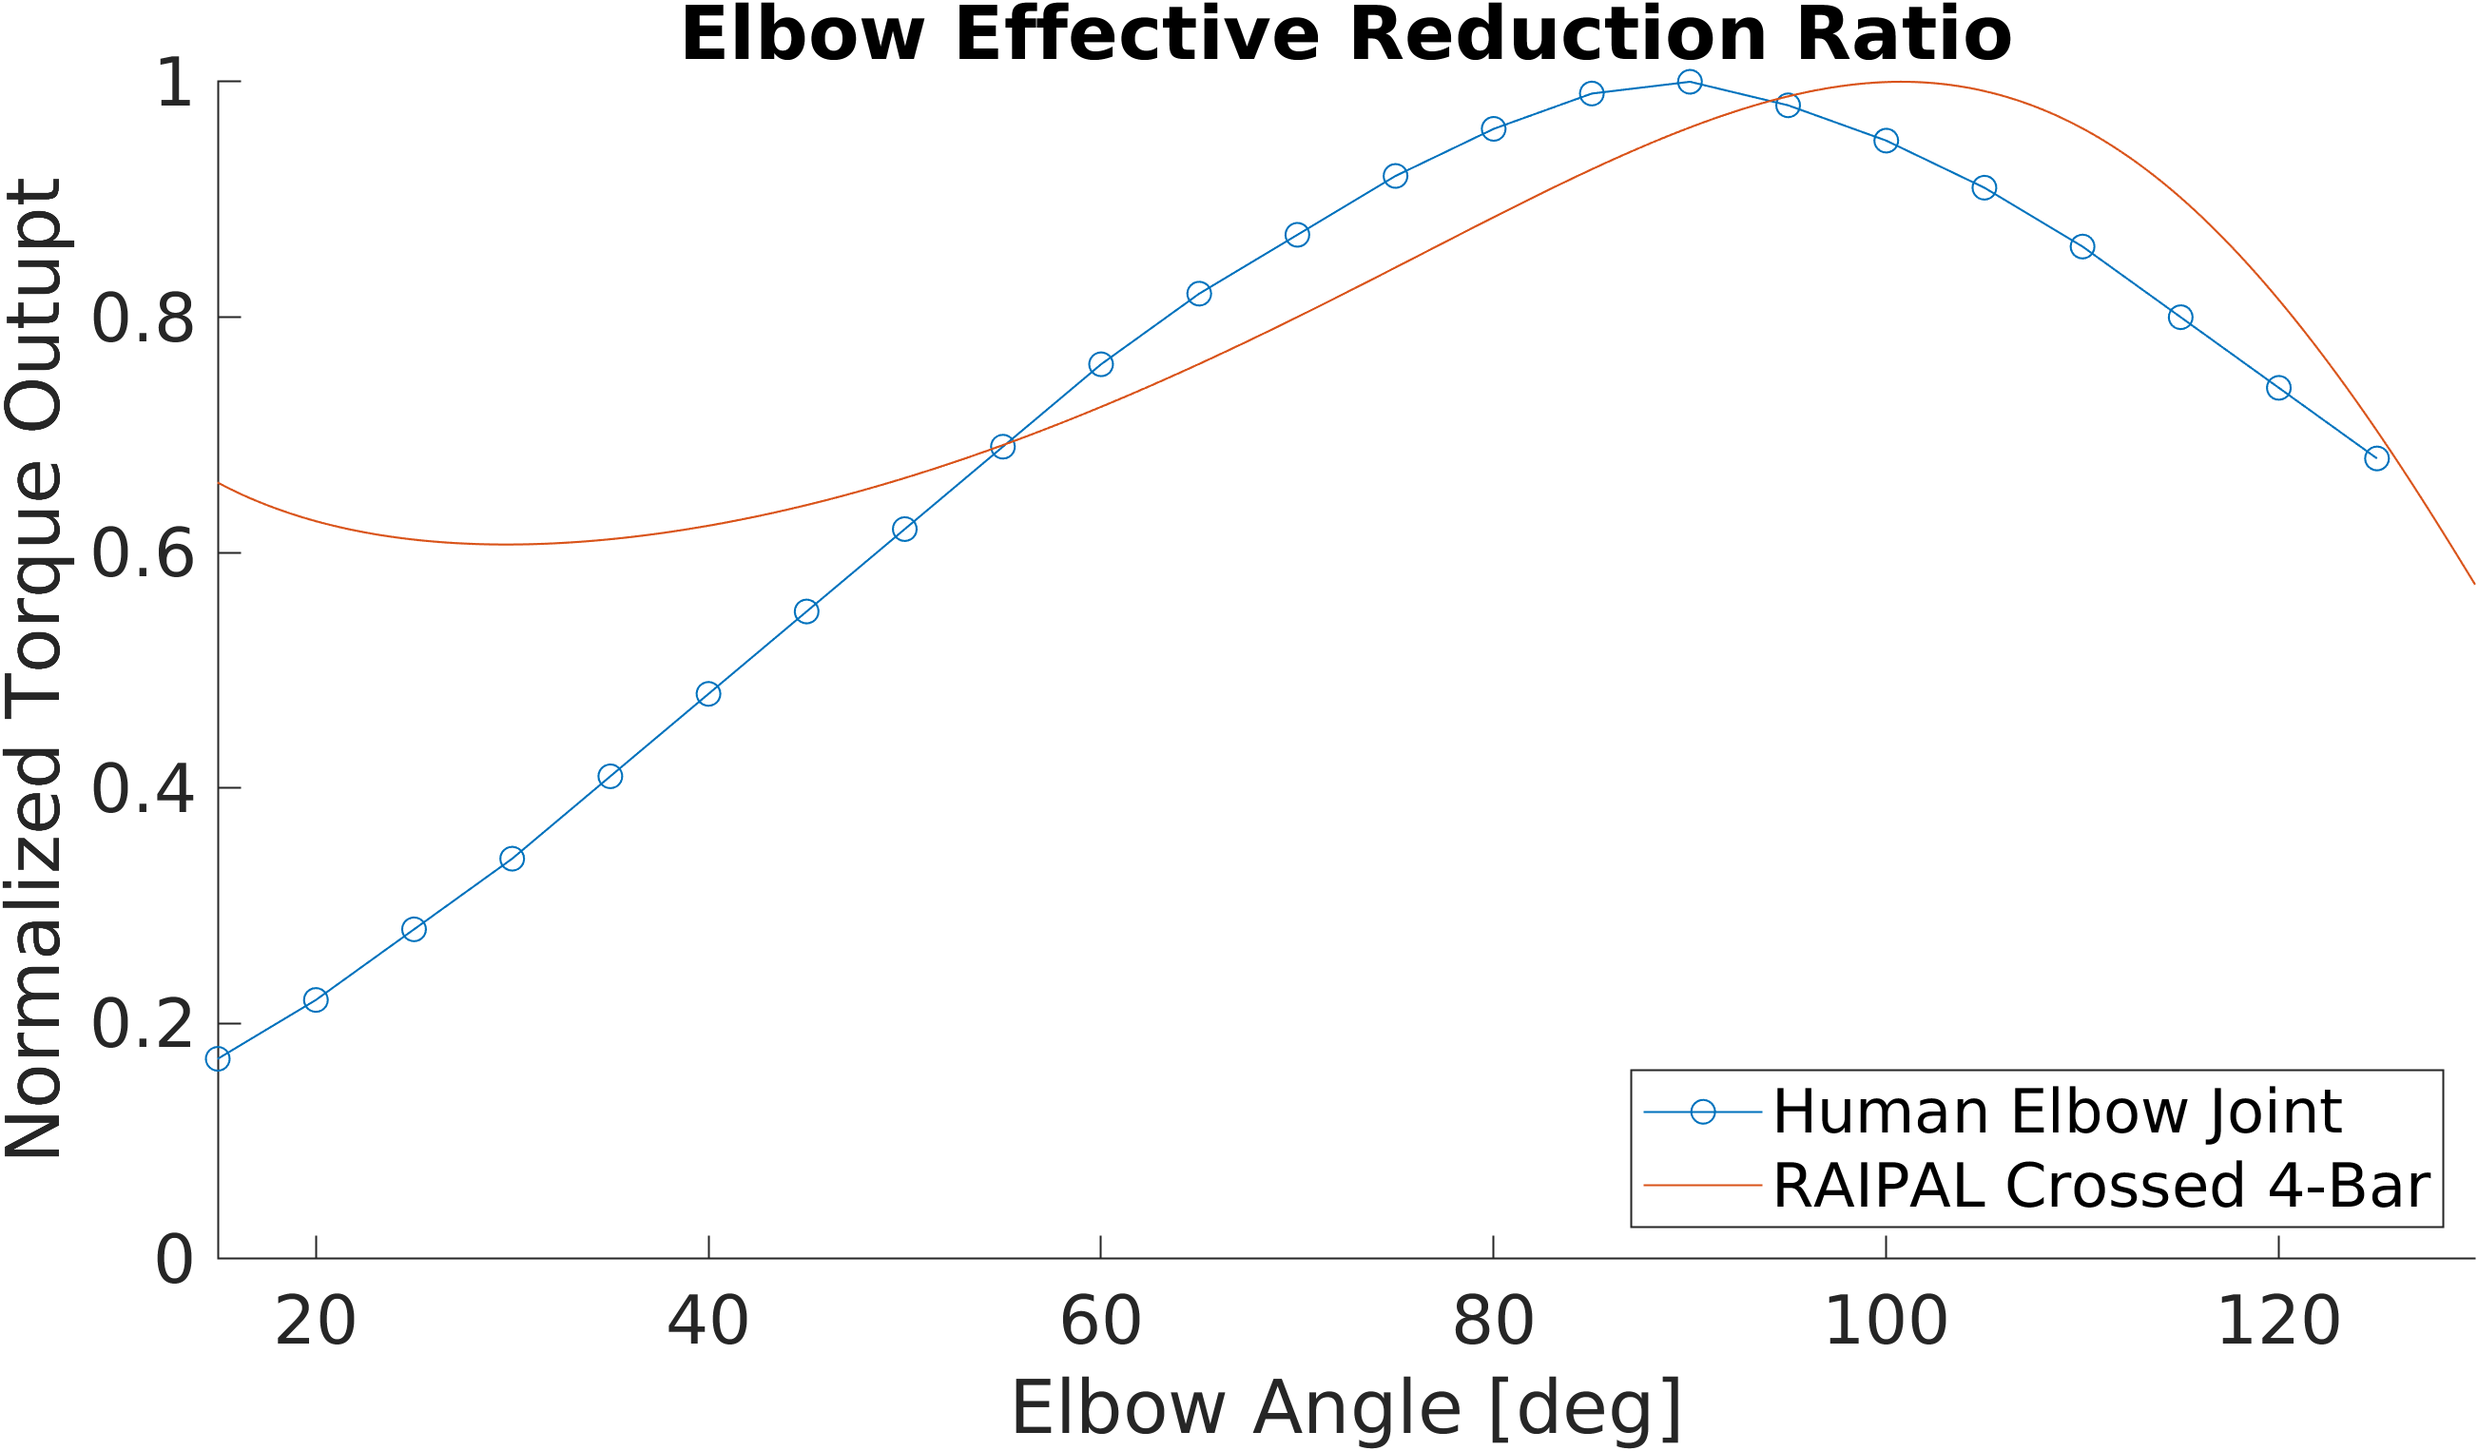
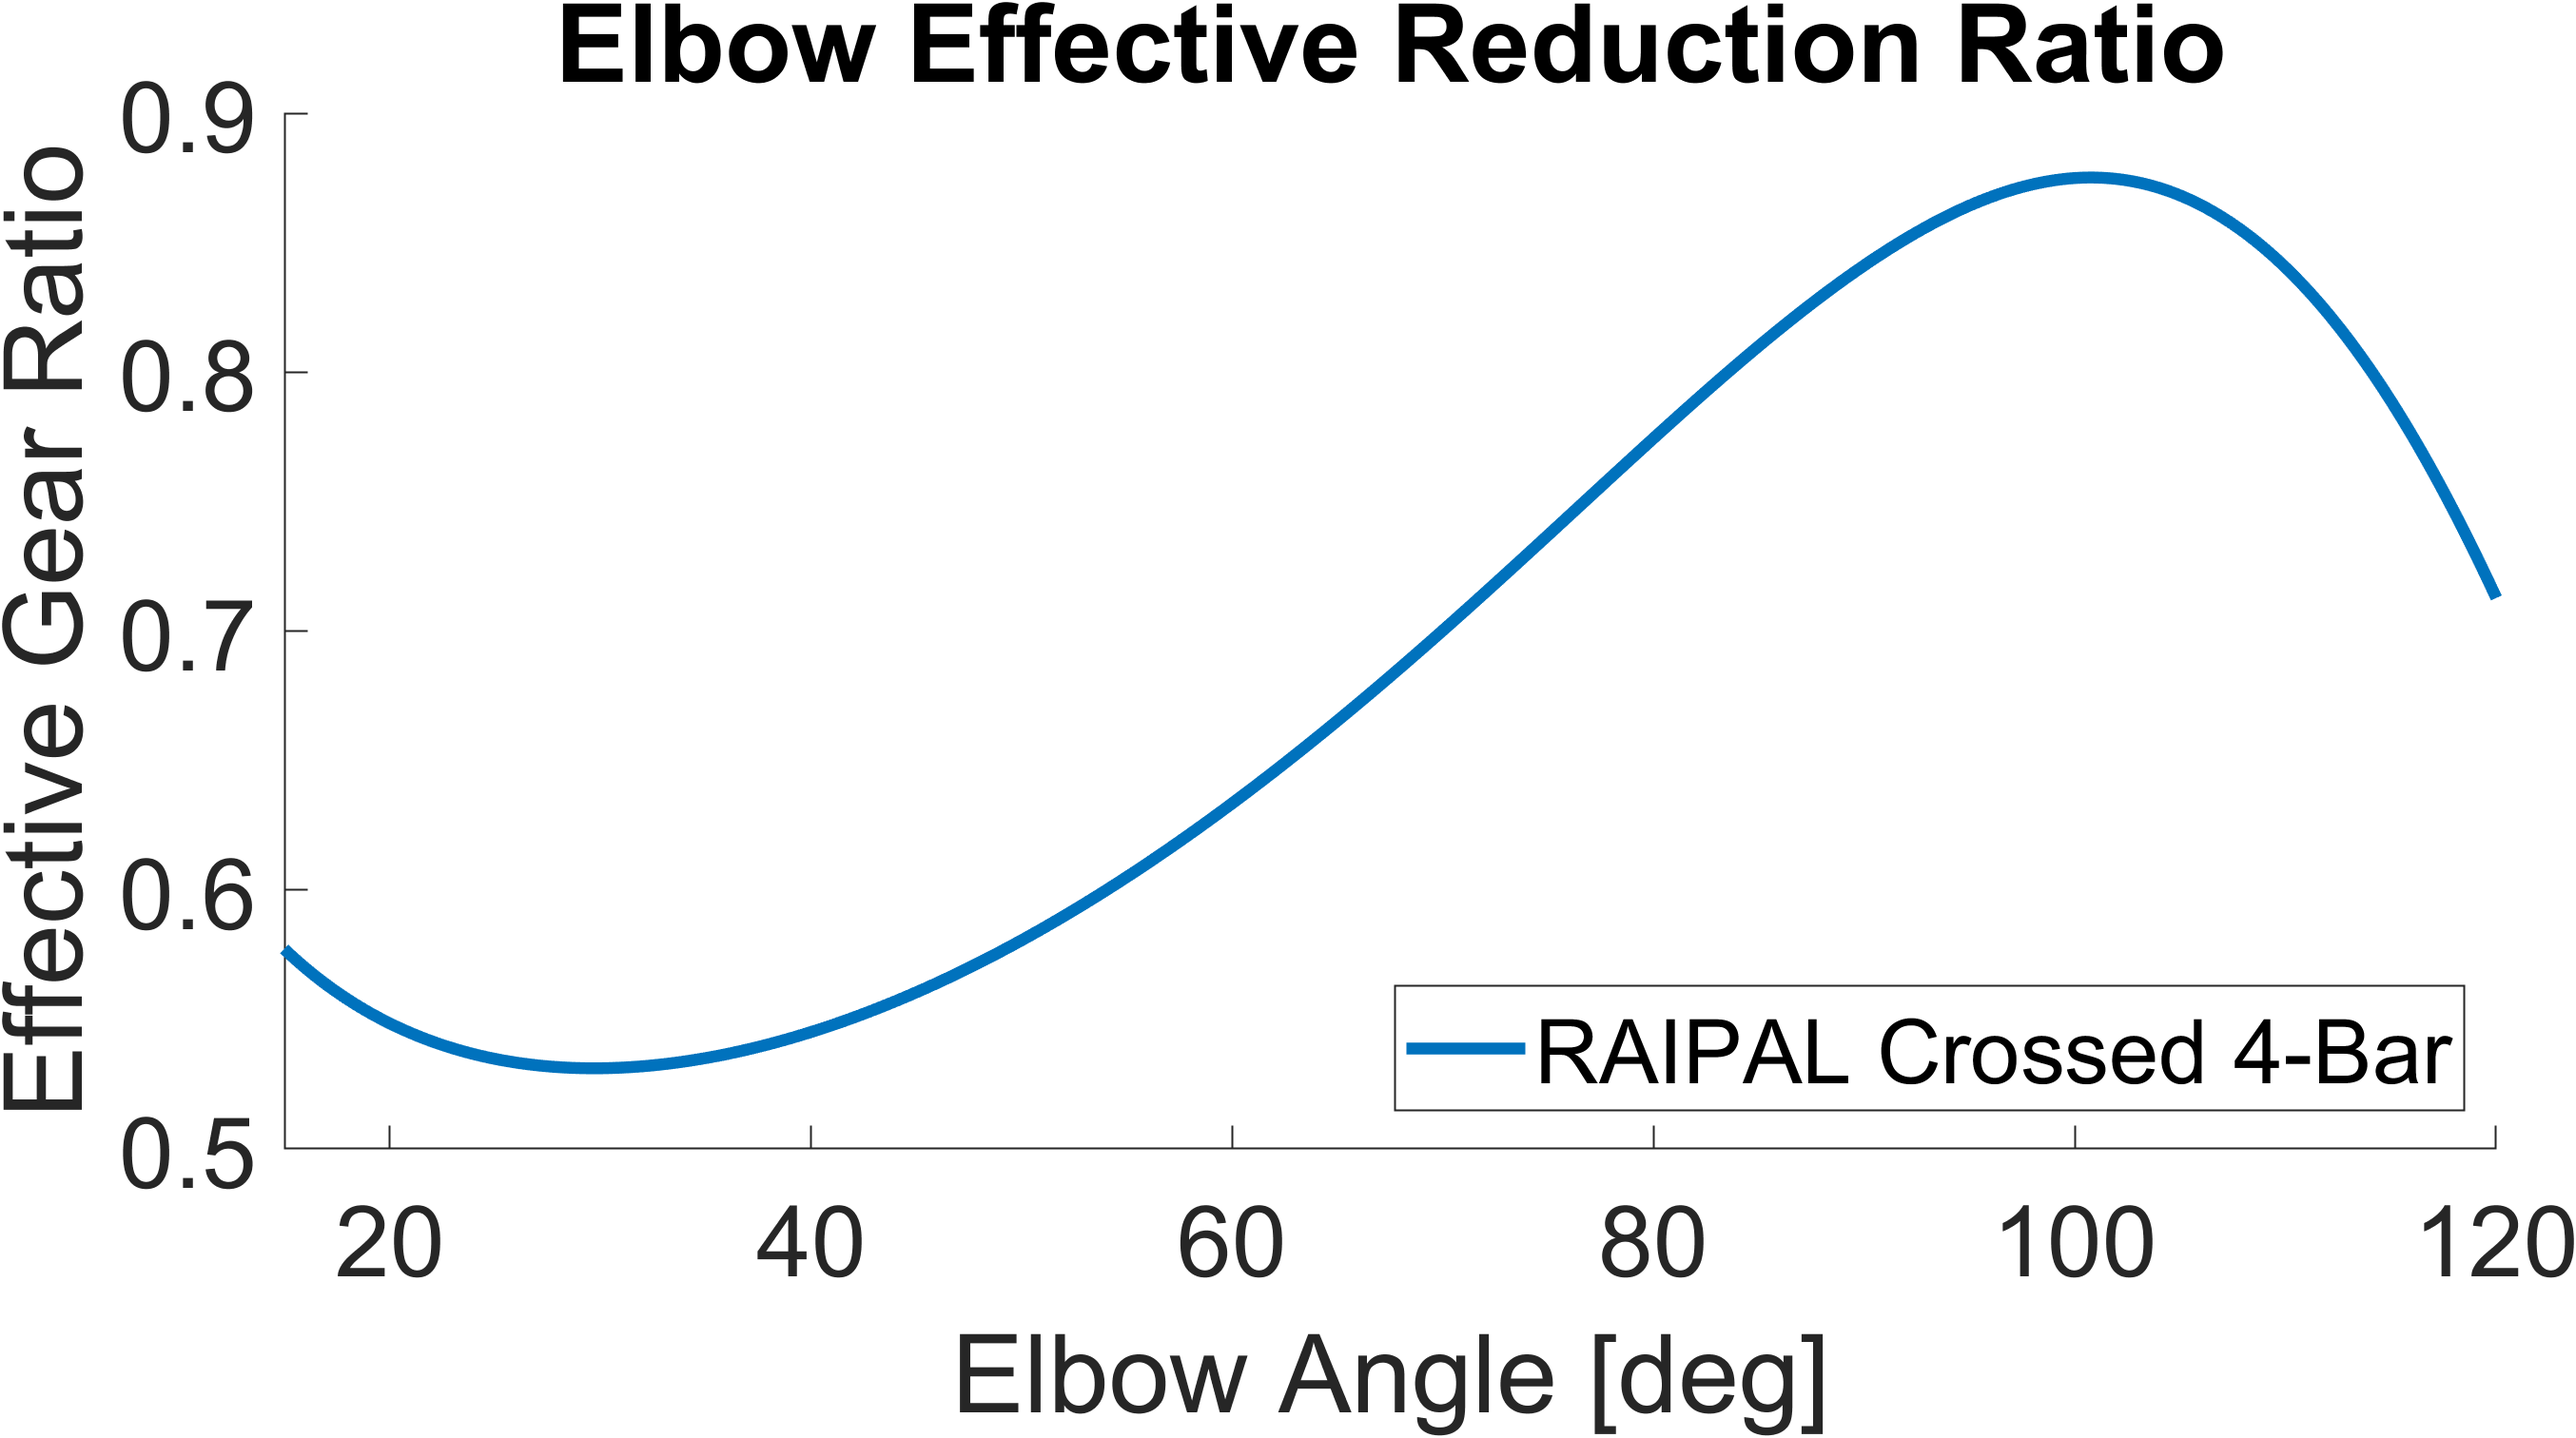
changed figure settings

diff --git a/log_analysis.m b/log_analysis.m
@@ -40,18 +40,14 @@ num_points = 4000;
 a_domain = linspace(0,89.13041976,num_points)' * pi / 180 ;
 
 %% Global font scaling (2x)
-font_scale = 2.0;
-% set(groot, "defaultAxesFontSize",   get(groot, "defaultAxesFontSize")   * font_scale);
-% set(groot, "defaultTextFontSize",   get(groot, "defaultTextFontSize")   * font_scale);
-% set(groot, "defaultLegendFontSize", get(groot, "defaultLegendFontSize") * font_scale);
-% set(groot, "defaultColorbarFontSize", get(groot, "defaultColorbarFontSize") * font_scale);
-set(groot, "defaultAxesFontSize",   17);
-set(groot, "defaultTextFontSize",   20);
-set(groot, "defaultLegendFontSize", 13);
+set(groot, "defaultAxesFontSize",   25);
+set(groot, "defaultTextFontSize",   30);
+set(groot, "defaultLegendFontSize", 20);
 set(groot, "defaultColorbarFontSize", 20);
+set(groot, 'DefaultLineLineWidth', 3);
 %%
-load('/home/chh-railab/RAIPAL_CFB/results/v1-5_result_2026-02-09.mat')
-load('/home/chh-railab/RAIPAL_CFB/MOR/MOR_MHR.mat')
+load('results/v1-5_result_2026-02-09.mat')
+load('MOR/MOR_MHR.mat')
 %% Plot effective reduction ratio using polynomial coefficients
 % b(a) and wb(a) polynomial fits (highest to lowest degree)
 b_fit = polyval(cell2mat(coeff_gc_3to5), a_domain);
@@ -110,7 +106,7 @@ for idx = idx_start:frame_step:idx_end
   clf(fig_ts);
 
   hold on;
-  title("Torque-Speed (Output)");
+  title("Operating Region (Output)");
   xlabel("Speed [rad/s]");
   ylabel("Torque [Nm]");
   plot(MOR_keypoints_MHR_peak(:,1) / ratio_min, MOR_keypoints_MHR_peak(:,2) * ratio_min,"r--", "DisplayName", "MOR (max. speed)");

diff --git a/CFB_approx.m b/CFB_approx.m
@@ -201,11 +201,11 @@ wc_domain = [wc_domain(1) - (wc_domain(2) - wc_domain(1));wc_domain];
 % this is a bad idea since the solution is not unique!
 
 %% Plotting effective reduction ratio
-set(groot, "defaultAxesFontSize",   17);
-set(groot, "defaultTextFontSize",   20);
-set(groot, "defaultLegendFontSize", 13);
+set(groot, "defaultAxesFontSize",   25);
+set(groot, "defaultTextFontSize",   30);
+set(groot, "defaultLegendFontSize", 20);
 set(groot, "defaultColorbarFontSize", 20);
-
+set(groot, 'DefaultLineLineWidth', 3);
 
 if ishandle(99)
     close(99);
@@ -217,16 +217,17 @@ normalized_inv_wb_fit = inv_wb_fit / max(inv_wb_fit(300:num_points,:));
 
 title("Elbow Effective Reduction Ratio")
 xlabel("Elbow Angle [deg]")
-ylabel("Normalized Torque Outupt")
+ylabel("Effective Gear Ratio")
 % xlim([0 max(b_fit * 180 / pi)]);
-xlim([15 max(b_fit * 180 / pi)]);
-ylim([0 1]);
+% xlim([15 max(b_fit * 180 / pi)]);
+xlim([15 120])
+ylim([0.5 0.9]);
 hold on;
 legend('location','southeast');
-plot(b_human, inv_wb_human, "-o", "DisplayName", "Human Elbow Joint");
-exportgraphics(fig_reduction,"results/FIGURE_reduction_human.png","Resolution",300)
+% plot(b_human, inv_wb_human, "-o", "DisplayName", "Human Elbow Joint");
+% exportgraphics(fig_reduction,"results/FIGURE_reduction_human.png","Resolution",300)
 
-plot(b_fit * 180 / pi, normalized_inv_wb_fit,"DisplayName","RAIPAL Crossed 4-Bar");
+plot(b_fit * 180 / pi, inv_wb_fit,"DisplayName","RAIPAL Crossed 4-Bar");
 
 hold off;
 
